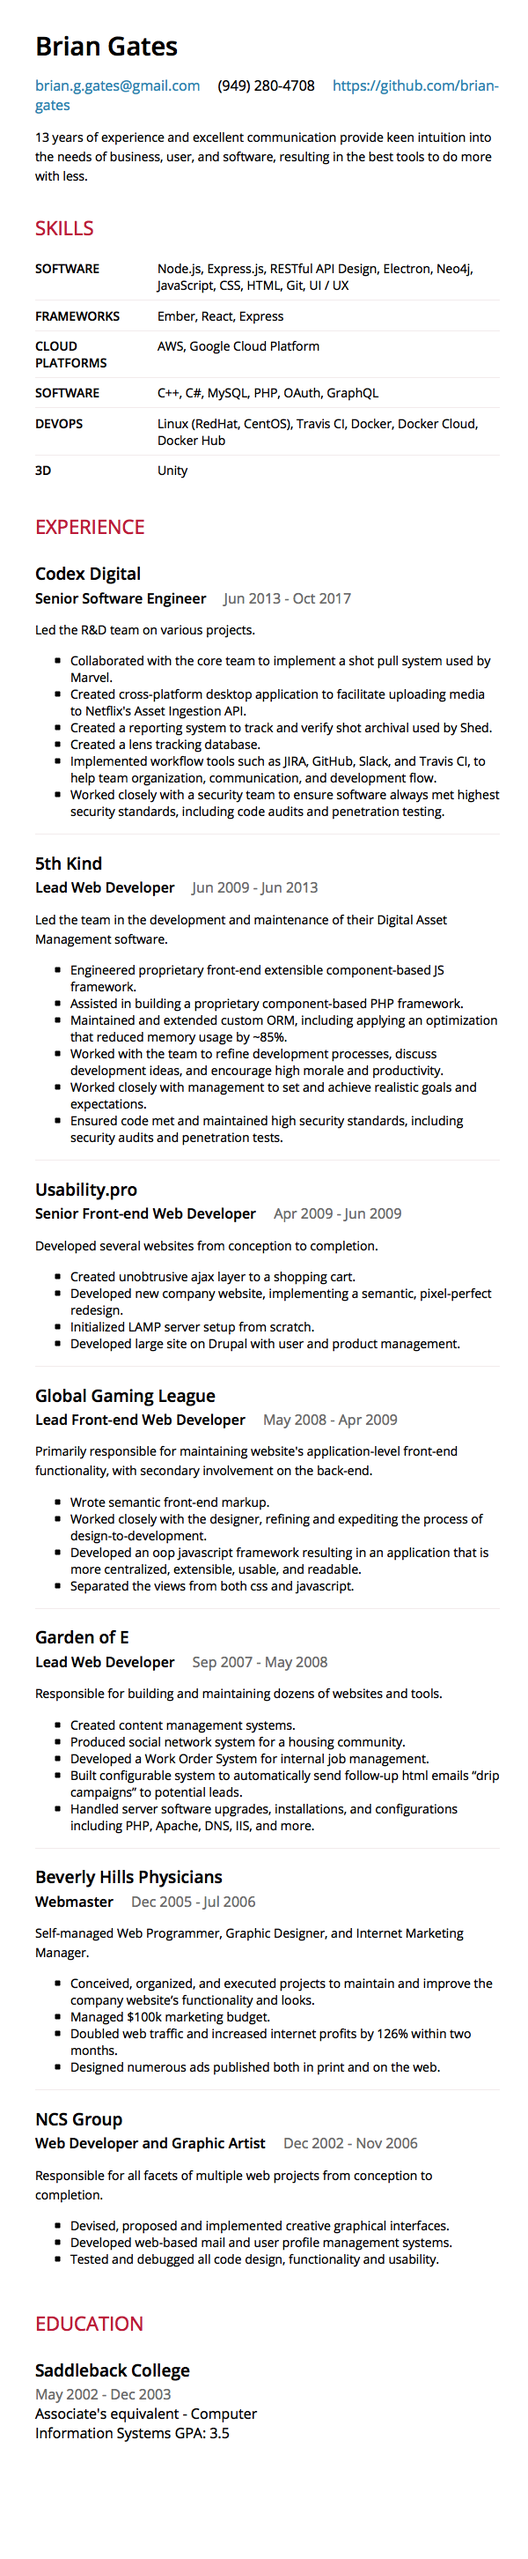
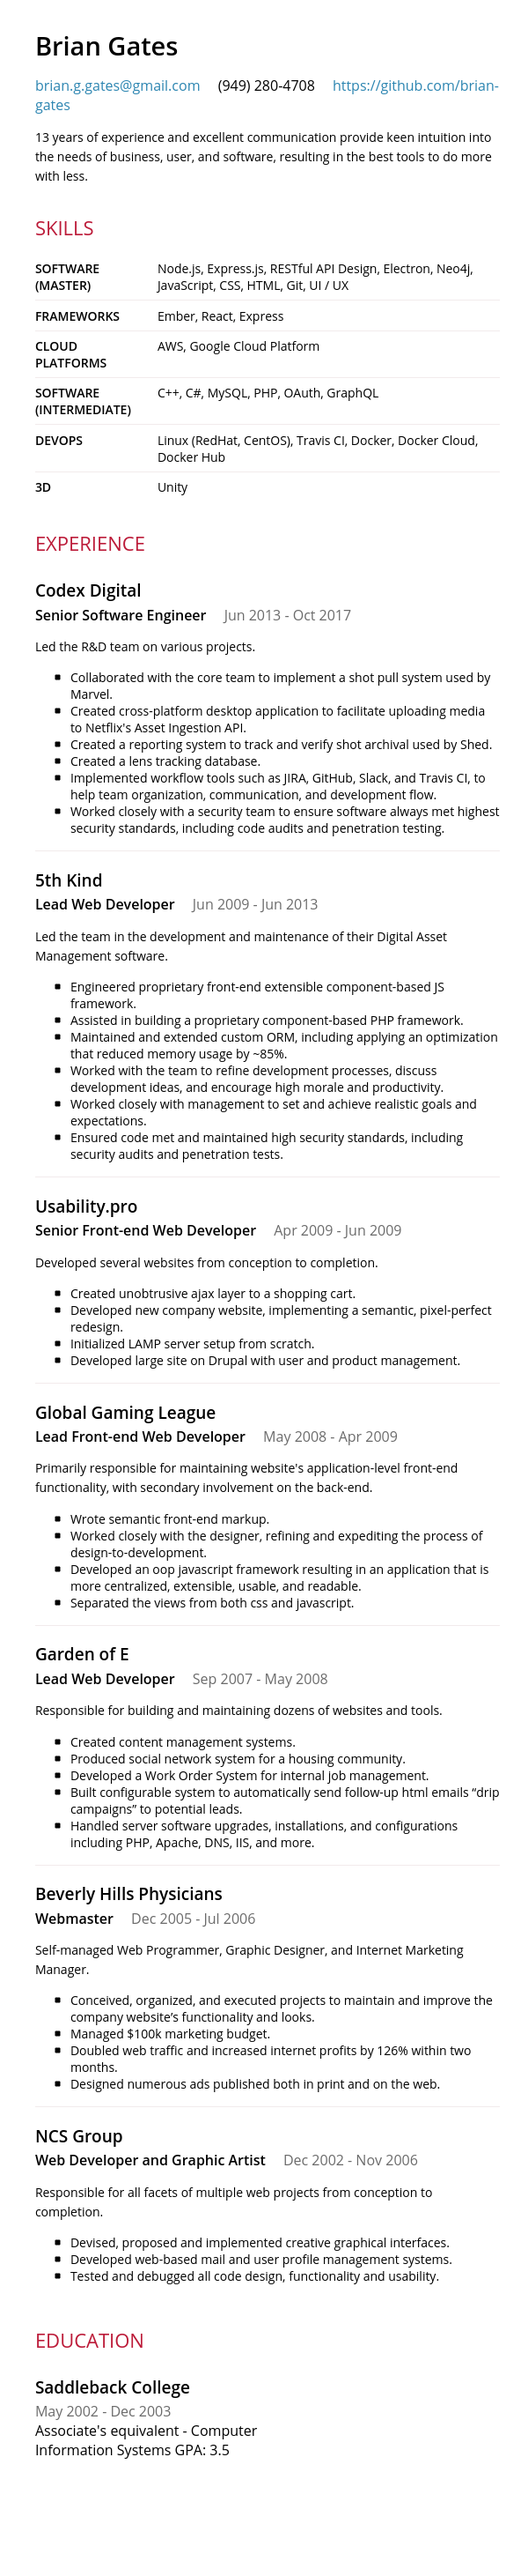
Formatting improvements

diff --git a/index.html b/index.html
@@ -184,7 +184,7 @@
                 	<h2>Skills</h2>
 
                 <div class="item">
-                    <div class="name">Software</div>
+                    <div class="name">Software (Master)</div>
                     <div class="keywords">Node.js, Express.js, RESTful API Design, Electron, Neo4j, JavaScript,
                         CSS, HTML, Git, UI / UX</div>
                 </div>
@@ -197,7 +197,7 @@
                     <div class="keywords">AWS, Google Cloud Platform</div>
                 </div>
                 <div class="item">
-                    <div class="name">Software</div>
+                    <div class="name">Software (Intermediate)</div>
                     <div class="keywords">C++, C#, MySQL, PHP, OAuth, GraphQL</div>
                 </div>
                 <div class="item">

diff --git a/out/resume.html b/out/resume.html
@@ -184,7 +184,7 @@
                 	<h2>Skills</h2>
 
                 <div class="item">
-                    <div class="name">Software</div>
+                    <div class="name">Software (Master)</div>
                     <div class="keywords">Node.js, Express.js, RESTful API Design, Electron, Neo4j, JavaScript,
                         CSS, HTML, Git, UI / UX</div>
                 </div>
@@ -197,7 +197,7 @@
                     <div class="keywords">AWS, Google Cloud Platform</div>
                 </div>
                 <div class="item">
-                    <div class="name">Software</div>
+                    <div class="name">Software (Intermediate)</div>
                     <div class="keywords">C++, C#, MySQL, PHP, OAuth, GraphQL</div>
                 </div>
                 <div class="item">

diff --git a/out/resume.png.html b/out/resume.png.html
@@ -184,7 +184,7 @@
                 	<h2>Skills</h2>
 
                 <div class="item">
-                    <div class="name">Software</div>
+                    <div class="name">Software (Master)</div>
                     <div class="keywords">Node.js, Express.js, RESTful API Design, Electron, Neo4j, JavaScript,
                         CSS, HTML, Git, UI / UX</div>
                 </div>
@@ -197,7 +197,7 @@
                     <div class="keywords">AWS, Google Cloud Platform</div>
                 </div>
                 <div class="item">
-                    <div class="name">Software</div>
+                    <div class="name">Software (Intermediate)</div>
                     <div class="keywords">C++, C#, MySQL, PHP, OAuth, GraphQL</div>
                 </div>
                 <div class="item">

diff --git a/out/resume.pdf.html b/out/resume.pdf.html
@@ -191,7 +191,7 @@ section h2 {
 		<h2>Skills</h2>
 		<div class="item">
 			<div class="name">
-				Software
+				Software (Master)
 			</div>
 			<div class="keywords">
 					Node.js,
@@ -227,7 +227,7 @@ section h2 {
 		</div>
 		<div class="item">
 			<div class="name">
-				Software
+				Software (Intermediate)
 			</div>
 			<div class="keywords">
 					C++,
